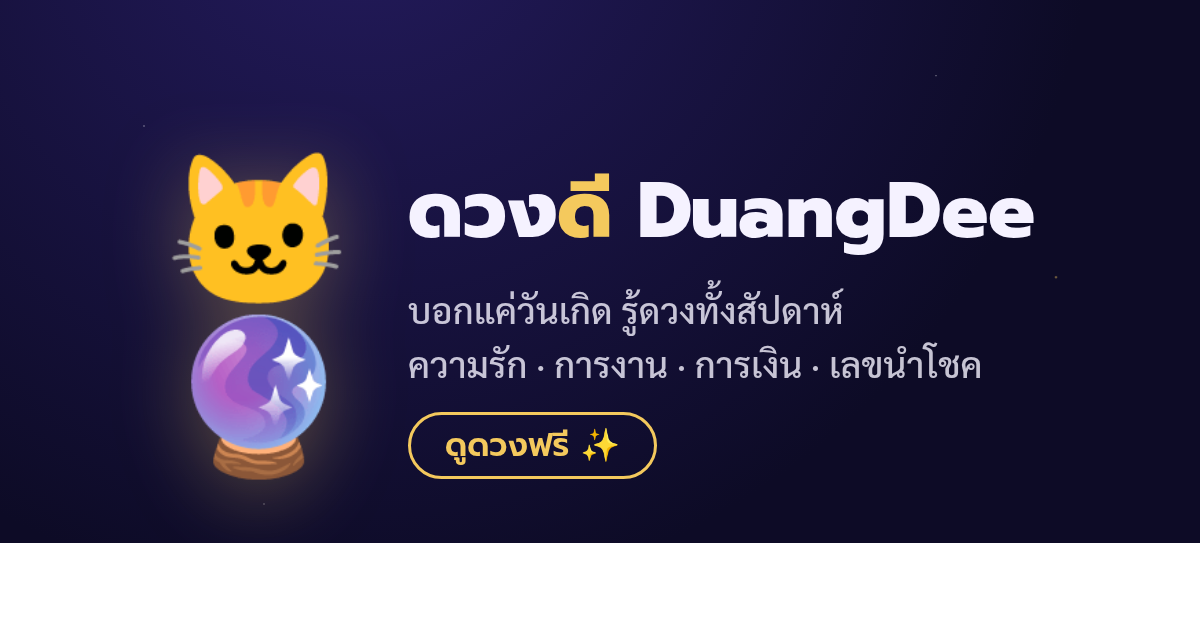
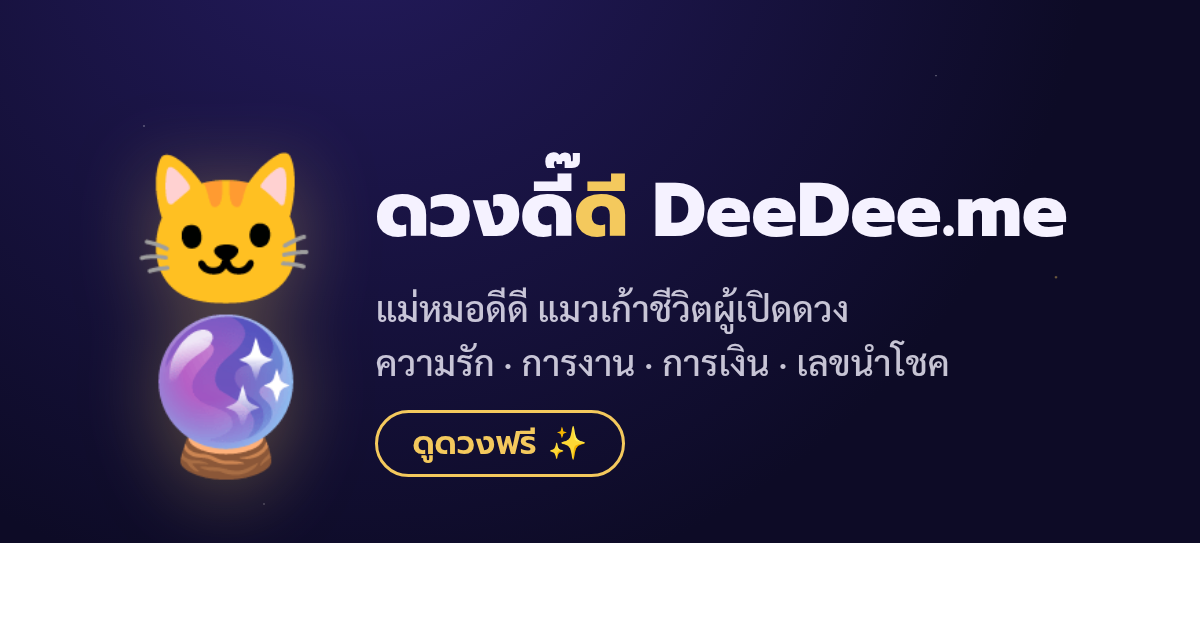
ブランド改名: ดวงดี๊ดี (DuangDeeDee) / キャラ=แม่หมอดีดี / ドメインdeedee.me
裸単語ดวงดีは大手メディアのタグページが占拠しSEO面で取れないため、
独自複合語ดวงดี๊ดี(可愛い強調形)へ昇格。壁紙・動画にdeedee.me焼き込み。

Claude-Session: https://claude.ai/code/session_01Huz2uD4Cdb1bQpexgre3xW

diff --git a/index.html b/index.html
@@ -3,9 +3,9 @@
 <head>
   <meta charset="UTF-8">
   <meta name="viewport" content="width=device-width, initial-scale=1.0">
-  <title>ดวงดี DuangDee — ดูดวงฟรีกับน้องแมวหมอดู 🐱🔮</title>
-  <meta name="description" content="ดูดวงประจำสัปดาห์ฟรี! บอกแค่วันเกิด น้องดวงดีจะเปิดดวงความรัก การงาน การเงิน พร้อมเลขนำโชคและวอลเปเปอร์เสริมดวงเฉพาะคุณ">
-  <meta property="og:title" content="ดวงดี DuangDee — ดูดวงฟรีกับน้องแมวหมอดู">
+  <title>ดวงดี๊ดี DuangDeeDee — ดูดวงฟรีกับน้องแมวหมอดู 🐱🔮</title>
+  <meta name="description" content="ดูดวงประจำสัปดาห์ฟรี! บอกแค่วันเกิด แม่หมอดีดีจะเปิดดวงความรัก การงาน การเงิน พร้อมเลขนำโชคและวอลเปเปอร์เสริมดวงเฉพาะคุณ">
+  <meta property="og:title" content="ดวงดี๊ดี DuangDeeDee — ดูดวงฟรีกับน้องแมวหมอดู">
   <meta property="og:description" content="บอกแค่วันเกิด รู้ดวงทั้งสัปดาห์ ✨ ความรัก การงาน การเงิน เลขนำโชค และวอลเปเปอร์เสริมดวงของคุณคนเดียว">
   <meta property="og:type" content="website">
   <meta property="og:url" content="https://mister-x-is-your-father.github.io/duangdee/">
@@ -22,7 +22,7 @@
 
     <!-- hero -->
     <header class="hero">
-      <svg class="mascot" viewBox="0 0 200 200" role="img" aria-label="น้องดวงดี แมวหมอดู">
+      <svg class="mascot" viewBox="0 0 200 200" role="img" aria-label="แม่หมอดีดี แมวหมอดู">
         <!-- หูซ้าย/ขวา -->
         <polygon points="55,70 68,28 92,62" fill="#5b4636"/>
         <polygon points="145,70 132,28 108,62" fill="#5b4636"/>
@@ -61,15 +61,15 @@
           <circle cx="38" cy="52" r="3"/><circle cx="166" cy="60" r="2.4"/><circle cx="152" cy="34" r="2"/>
         </g>
       </svg>
-      <h1>ดวง<span class="gold">ดี</span></h1>
-      <p class="tagline">น้องดวงดี แมวหมอดูสายมู 🐾 เปิดดวงให้คุณทุกสัปดาห์</p>
+      <h1>ดวงดี๊<span class="gold">ดี</span></h1>
+      <p class="tagline">แม่หมอดีดี แมวหมอดูสายมู 🐾 เปิดดวงให้คุณทุกสัปดาห์</p>
       <span class="badge" id="week-label">ดวงประจำสัปดาห์</span>
     </header>
 
     <!-- form -->
     <section id="screen-form">
       <div class="card">
-        <h2><span class="emoji">🔮</span>บอกวันเกิด แล้วให้น้องดวงดีเปิดดวงให้เลย</h2>
+        <h2><span class="emoji">🔮</span>บอกวันเกิด แล้วให้แม่หมอดีดีเปิดดวงให้เลย</h2>
         <div class="field">
           <label for="f-name">ชื่อเล่น (ไม่บังคับ)</label>
           <input id="f-name" type="text" maxlength="20" placeholder="เช่น มายด์, บอส, ฝ้าย">
@@ -133,7 +133,7 @@
       </div>
 
       <div class="card">
-        <h2><span class="emoji">👀</span>น้องดวงดีเห็นบางอย่างในดวงคุณ...</h2>
+        <h2><span class="emoji">👀</span>แม่หมอดีดีเห็นบางอย่างในดวงคุณ...</h2>
         <p class="teaser">โชคก้อนใหญ่กำลังเคลื่อนเข้าใกล้คุณในสัปดาห์นี้ — เลขนำโชค วันเวลาทอง และเคล็ดลับเฉพาะตัวของคุณ ซ่อนอยู่ตรงนี้</p>
 
         <div id="locked-view">
@@ -179,7 +179,7 @@
       <div class="modal-card">
         <button class="modal-close" id="modal-close" aria-label="ปิด">×</button>
         <h3>🎉 ระบบชำระเงินกำลังเปิดเร็ว ๆ นี้!</h3>
-        <p>ฝากอีเมลหรือ LINE ID ไว้ แล้วรับ<b>ส่วนลด 50%</b> ทันทีที่เปิดตัว — แถมรอบนี้น้องดวงดีปลดล็อกให้ฟรีเลย 🐱</p>
+        <p>ฝากอีเมลหรือ LINE ID ไว้ แล้วรับ<b>ส่วนลด 50%</b> ทันทีที่เปิดตัว — แถมรอบนี้แม่หมอดีดีปลดล็อกให้ฟรีเลย 🐱</p>
         <div class="field">
           <input id="modal-contact" type="text" placeholder="อีเมล หรือ LINE ID">
         </div>
@@ -190,7 +190,7 @@
     <div id="toast" class="hidden"></div>
 
     <footer>
-      🐱 ดวงดี DuangDee · รุ่นทดลอง (Beta)<br>
+      🐱 ดวงดี๊ดี DuangDeeDee · รุ่นทดลอง (Beta)<br>
       เพื่อความบันเทิงเท่านั้น · ไม่การันตีผลลัพธ์ใด ๆ · โปรดใช้วิจารณญาณ<br>
       วันเกิดของคุณถูกประมวลผลบนอุปกรณ์ของคุณเท่านั้น เราเก็บเฉพาะสถิติการใช้งานแบบไม่ระบุตัวตน
     </footer>

diff --git a/wallpaper.js b/wallpaper.js
@@ -70,7 +70,7 @@ function drawWallpaper(canvas, opts) {
   // ข้อความ
   ctx.fillStyle = "#ffffff";
   ctx.font = "600 64px Prompt, sans-serif";
-  ctx.fillText(opts.name ? "ดวงดีของ " + opts.name : "ดวงดีของฉัน", cx, H * 0.62);
+  ctx.fillText(opts.name ? "ดวงดี๊ดีของ " + opts.name : "ดวงดี๊ดีของฉัน", cx, H * 0.62);
   ctx.fillStyle = opts.accent;
   ctx.font = "500 46px Prompt, sans-serif";
   ctx.fillText("เลขนำโชค " + opts.lucky2 + " · " + opts.lucky3, cx, H * 0.62 + 80);
@@ -81,7 +81,7 @@ function drawWallpaper(canvas, opts) {
   // ลายเซ็นแบรนด์
   ctx.fillStyle = "rgba(255,255,255,0.55)";
   ctx.font = "500 34px Prompt, sans-serif";
-  ctx.fillText("🐱 ดวงดี DuangDee", cx, H - 90);
+  ctx.fillText("🐱 ดวงดี๊ดี · deedee.me", cx, H - 90);
 }
 
 function shade(hex, amt) {

diff --git a/app.js b/app.js
@@ -223,8 +223,8 @@ function onWaitlistSend() {
 
 async function onShareClick() {
   const data = {
-    title: "ดวงดี DuangDee",
-    text: "ลองดูดวงฟรีกับน้องดวงดี 🐱🔮 บอกแค่วันเกิดก็รู้ดวงทั้งสัปดาห์!",
+    title: "ดวงดี๊ดี DuangDeeDee",
+    text: "ลองดูดวงฟรีกับแม่หมอดีดี แมวเก้าชีวิต 🐱🔮 บอกแค่วันเกิดก็รู้ดวงทั้งสัปดาห์!",
     url: location.origin + location.pathname + "?s=sh"
   };
   try {

diff --git a/pipeline/POSTING.md b/pipeline/POSTING.md
@@ -2,15 +2,16 @@
 
 ## プロフィール設定（コピペ用）
 
-- **ユーザー名候補**: `duangdee.cat` / `nong.duangdee` / `duangdee_th`
-- **表示名**: ดวงดี 🐱🔮
+- **ユーザー名候補**: `deedee.duang` / `maemor.deedee` / `duangdeedee`
+- **表示名**: ดวงดี๊ดี 🐱🔮
 - **Bio（タイ語）**:
   ```
-  น้องดวงดี แมวหมอดูสายมู 🐱✨
+  แม่หมอดีดี แมวเก้าชีวิตผู้เปิดดวง 🐱✨
   ดวงรายวัน · เลขนำโชค · วอลเปเปอร์เสริมดวง
   ดูดวงเจาะลึกฟรี 👇
-  mister-x-is-your-father.github.io/duangdee
+  deedee.me
   ```
+  （deedee.me購入まではURL部分を mister-x-is-your-father.github.io/duangdee にしておく）
 - 注意: 通常アカウントはフォロワー1,000人までBioにリンクを貼れない → 上記のようにURLをテキストで書いておく。ビジネスアカウントに切り替えるとリンク欄が使える場合があるが、トレンド音源が使えなくなるため**当面は通常アカウント推奨**
 
 ## 投稿手順（1本あたり2分）

diff --git a/README.md b/README.md
@@ -1,6 +1,6 @@
-# ดวงดี DuangDee 🐱🔮
+# ดวงดี๊ดี DuangDeeDee 🐱🔮
 
-ดูดวงประจำสัปดาห์ฟรีกับน้องดวงดี แมวหมอดูสายมู — บอกแค่วันเกิด รู้ดวงความรัก การงาน การเงิน พร้อมเลขนำโชคและวอลเปเปอร์เสริมดวงเฉพาะคุณ
+ดูดวงประจำสัปดาห์ฟรีกับแม่หมอดีดี แมวหมอดูสายมู — บอกแค่วันเกิด รู้ดวงความรัก การงาน การเงิน พร้อมเลขนำโชคและวอลเปเปอร์เสริมดวงเฉพาะคุณ
 
 A weekly Thai fortune-telling web app. Static site, all readings computed client-side.
 
